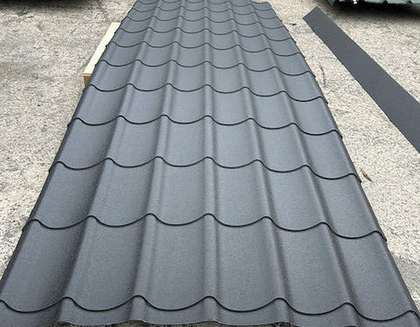
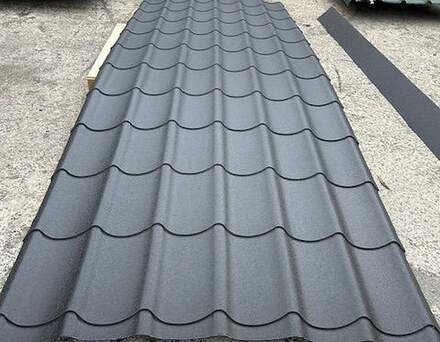
Loading screen: brighter photos from across the whole range
The splash collage was mostly roofing and shown at 30% opacity in greyscale
under a heavy vignette, so it read as a dark grey grid. Now:

- twelve photos covering decking, slatted and stone cladding, fencing, garden
  rooms, granite setts and steps, paving, and two roofing sheets
- shown in full colour at full opacity
- darkened only in a soft glow behind the logo, with a drop shadow on the
  logo and a lighter subtitle so they still read over bright photos
- laid out in an exact 4 x 4 grid (one tall and two short photos per column)
  so the wall has no gaps now that the edges are no longer blacked out

Timing and behaviour are unchanged. Splash copies of the new photos are
440px; the old splash-only photos are removed.

Claude-Session: https://claude.ai/code/session_011mfcFzK53gVH4dn84qnrwu

diff --git a/intro.js b/intro.js
@@ -1,16 +1,23 @@
 /* B&C McKeown — intro splash.
-   A brief collage of yard photos behind the wordmark, shown once per visit.
+   A brief collage of photos from across the range behind the wordmark,
+   shown once per visit.
    Entirely self-contained: delete this file and the site behaves exactly as
    before (the <script> tag pointing at it simply finds nothing). */
 (function () {
   "use strict";
 
   var KEY = "bcIntroSeen";
+  // A mix of the whole range: decking, cladding, fencing, garden rooms,
+  // granite and paving, with roofing as one part of it. They fill a 4 x 4 grid
+  // a column at a time, top to bottom; a TALL photo takes two rows, so each
+  // column is one tall and two short and the wall has no gaps.
   var PHOTOS = [
-    "hero.jpg", "cat-roofing.jpg", "feat-bronze.jpg", "cat-landscaping.jpg",
-    "g1.jpg", "cat-decking.jpg", "g4.jpg", "feat-cut.jpg",
-    "g3.jpg", "g2.jpg", "feat-poly.jpg", "g5.jpg"
+    "tile-gardenroom.jpg", "tile-cladding.jpg", "tile-paving.jpg",
+    "tile-stone.jpg", "tile-roofing.jpg", "g-decking.jpg",
+    "tile-granite.jpg", "tile-fencing.jpg", "tile-decking.jpg",
+    "g-steps.jpg", "g-setts.jpg", "cat-roofing.jpg"
   ];
+  var TALL = ["tile-cladding.jpg", "tile-stone.jpg", "tile-decking.jpg", "g-setts.jpg"];
 
   function seen() {
     try { return window.sessionStorage.getItem(KEY) === "1"; } catch (e) { return false; }
@@ -43,19 +50,20 @@
     "transition:opacity 520ms cubic-bezier(.4,0,.2,1),transform 620ms cubic-bezier(.4,0,.2,1)}",
     ".bc-splash.is-out{opacity:0;transform:scale(1.035)}",
 
-    /* the collage: a tilted wall of photos, quiet and slow */
+    /* the collage: a tilted wall of photos in full colour */
     ".bc-wall{position:absolute;inset:-12%;display:grid;gap:10px;",
-    "grid-template-columns:repeat(4,1fr);grid-auto-rows:1fr;transform:rotate(-6deg);",
+    "grid-template-columns:repeat(4,1fr);grid-template-rows:repeat(4,1fr);grid-auto-flow:column;",
+    "transform:rotate(-6deg);",
     "animation:bcDrift 2.6s cubic-bezier(.16,.84,.28,1) forwards}",
     ".bc-wall figure{margin:0;overflow:hidden;background:#1a1d21;opacity:0;",
     "animation:bcTile 900ms cubic-bezier(.16,.84,.28,1) forwards}",
     ".bc-wall img{width:100%;height:100%;object-fit:cover;display:block;",
-    "filter:grayscale(.4) contrast(1.06)}",
-    ".bc-wall figure:nth-child(3n){grid-row:span 2}",
+    "filter:saturate(1.08) contrast(1.04)}",
+    ".bc-wall .is-tall{grid-row:span 2}",
 
-    /* soft vignette so the wordmark always has contrast */
+    /* dark only behind the wordmark so it always reads; the photos stay bright */
     ".bc-shade{position:absolute;inset:0;",
-    "background:radial-gradient(ellipse 62% 54% at 50% 50%,rgba(14,16,19,.55) 0%,rgba(14,16,19,.86) 72%,#0e1013 100%)}",
+    "background:radial-gradient(ellipse 44% 30% at 50% 50%,rgba(14,16,19,.82) 0%,rgba(14,16,19,.6) 45%,rgba(14,16,19,.14) 80%,rgba(14,16,19,.06) 100%)}",
 
     ".bc-mark{position:relative;text-align:center;color:#fff;padding:0 24px}",
     ".bc-word{font-family:Teko,'Arial Narrow',Impact,sans-serif;font-weight:600;",
@@ -68,13 +76,15 @@
     ".bc-rule{height:2px;width:min(260px,52vw);margin:18px auto 14px;background:#e6b65c;",
     "transform:scaleX(0);animation:bcRule 760ms cubic-bezier(.16,.84,.28,1) 520ms forwards}",
     ".bc-sub{font-family:Outfit,'Segoe UI',sans-serif;font-size:12px;font-weight:600;",
-    "letter-spacing:.34em;text-transform:uppercase;color:#b9bdc1;opacity:0;",
+    "letter-spacing:.34em;text-transform:uppercase;color:#e4e7ea;opacity:0;",
+    "text-shadow:0 1px 10px rgba(0,0,0,.7);",
     "animation:bcFade 700ms ease 720ms forwards}",
 
     "@keyframes bcDrift{from{transform:rotate(-6deg) scale(1.12)}to{transform:rotate(-6deg) scale(1)}}",
-    "@keyframes bcTile{from{opacity:0;transform:translateY(18px)}to{opacity:.32;transform:none}}",
+    "@keyframes bcTile{from{opacity:0;transform:translateY(18px)}to{opacity:1;transform:none}}",
     "@keyframes bcWord{from{opacity:0;letter-spacing:.32em}to{opacity:1;letter-spacing:.04em}}",
     ".bc-logo{display:block;width:min(680px,78vw);height:auto;margin:0 auto;opacity:0;",
+    "filter:drop-shadow(0 2px 16px rgba(0,0,0,.6));",
     "transform:scale(1.04);animation:bcLogo 1050ms cubic-bezier(.16,.84,.28,1) 120ms forwards}",
     "@keyframes bcLogo{to{opacity:1;transform:none}}",
     "@keyframes bcRule{to{transform:scaleX(1)}}",
@@ -107,6 +117,7 @@
     wall.className = "bc-wall";
     PHOTOS.forEach(function (src, i) {
       var fig = document.createElement("figure");
+      if (TALL.indexOf(src) !== -1) fig.className = "is-tall";
       fig.style.animationDelay = (i * 55) + "ms";
       var img = new Image();
       img.alt = "";
